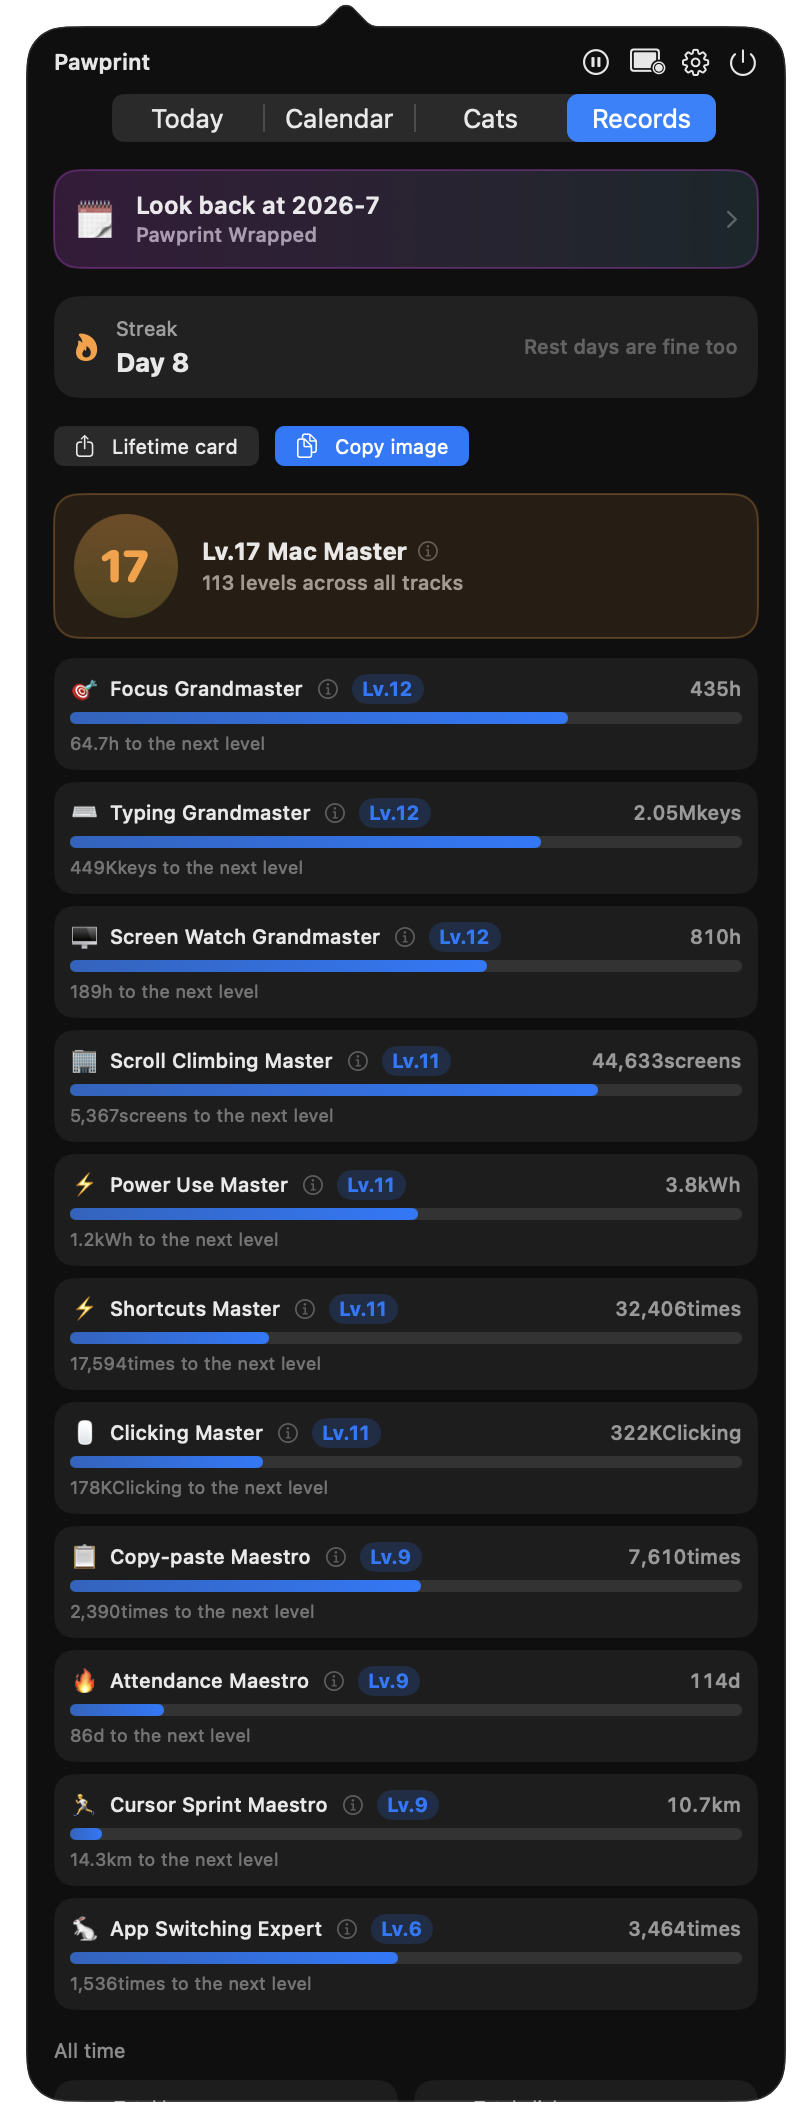
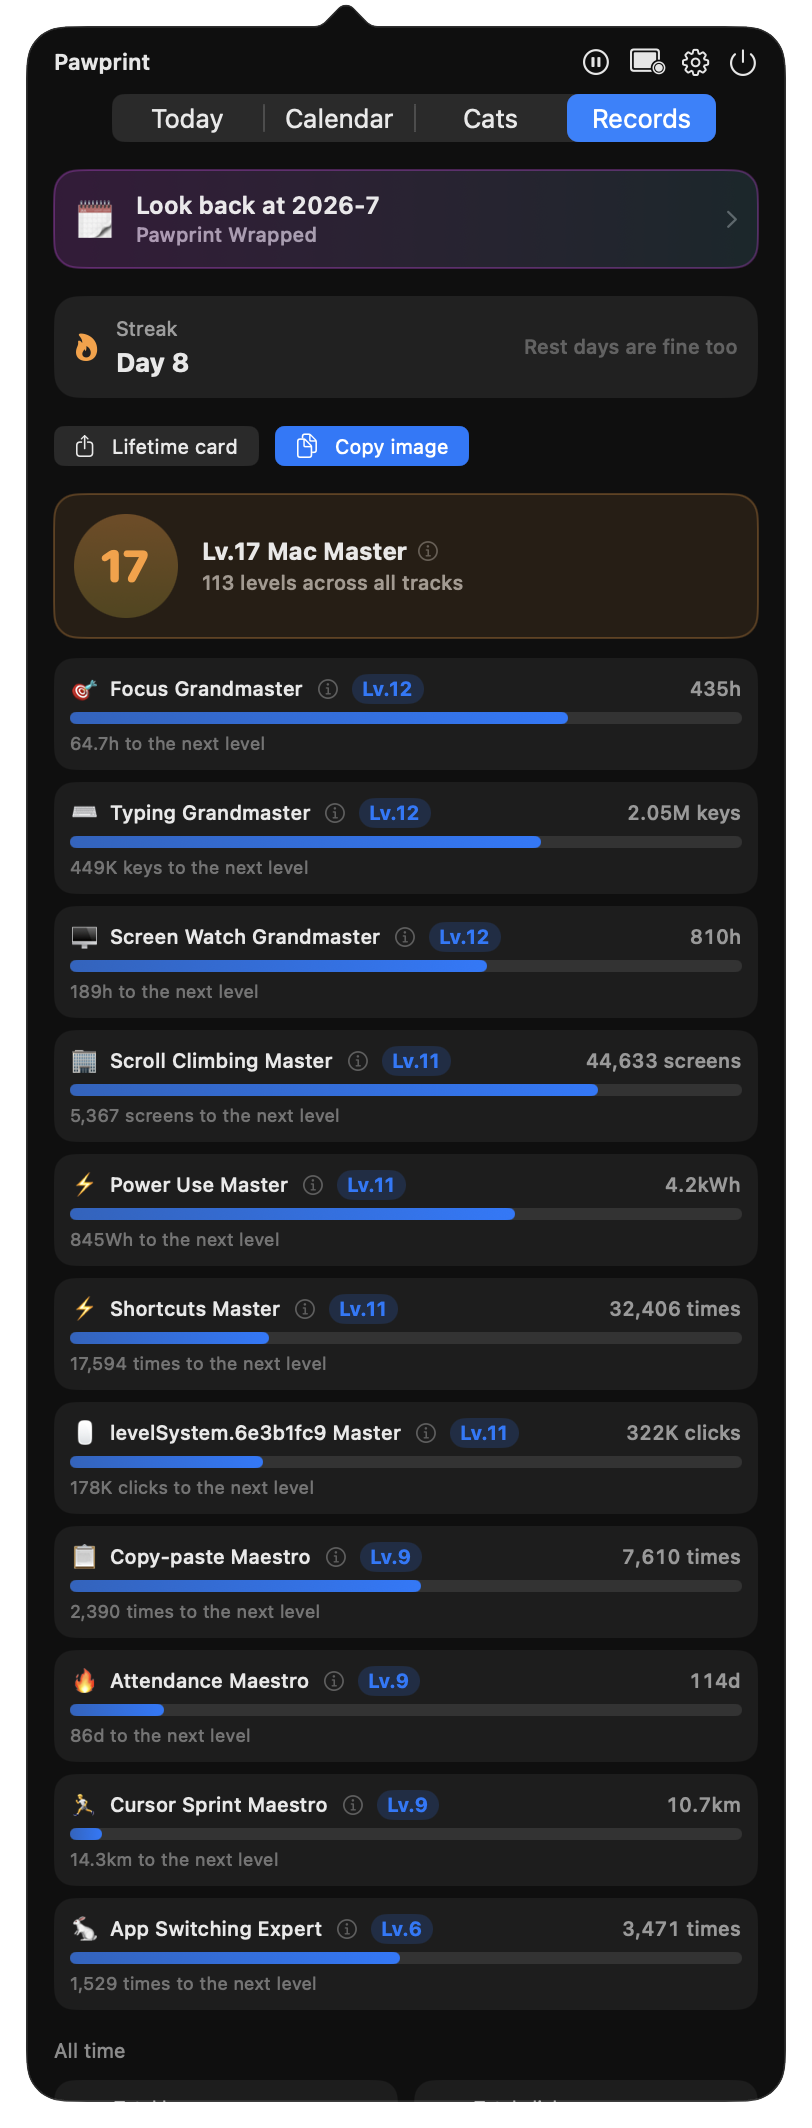
Fix English layout and unit spacing, and match the paw's pace to the cat's
The punch card and the calendar gutter reserved 12pt for a weekday name, which
fits Korean's single character and not "Wed". English also had Sunday
translated as "d" — the day *unit* — because Korean writes both as 일. Both
grids now show an initial, with the full name in the tooltip.

Units were being glued onto numbers in code: correct for Korean (863화면),
wrong for English (863screens, 32,406times, 322KClicking). Each unit is now a
whole template in the language pack, so the spacing belongs to the translation.
The monthly trend axis had the same collision in reverse — 월 is both "month"
and "Monday", so the English axis read "03Mon"; month names now come from the
locale. The pawpet card's trait column was a fixed 26pt and split "Expression"
across three lines; it is a Grid now, sized to whatever language is loaded.

The paw's wiggle divided by 12 while the cycle is 48 frames, a leftover from
when the cycle was 12. Once the cycle was lengthened for the cat, the paw ran
four wiggles per tail wave and looked frantic next to it. One motion each now.

READMEs lead with what the app measures — cursor distance, scroll, app
switching, focus, power — rather than reading as a typing tracker, and add
captures of the lower half of Today (fun facts, keyboard heatmap) and the
share card.

diff --git a/Sources/Pawprint/UI/PopoverRootView.swift b/Sources/Pawprint/UI/PopoverRootView.swift
@@ -25,9 +25,22 @@ struct PopoverRootView: View {
     static let gallerySort: PawpetGalleryView.SortField =
         ProcessInfo.processInfo.environment["PAWPRINT_SHOT_SORT"] == "date" ? .date : .rarity
 
-    static let scrollHeight: CGFloat =
+    /// `var`, not `let`, only so the capture harness can shoot one tab at two different heights
+    /// in a single run. Nothing in the app writes it.
+    static var scrollHeight: CGFloat =
         ProcessInfo.processInfo.environment["PAWPRINT_SHOT_HEIGHT"].flatMap { CGFloat(Double($0) ?? 0) }
             ?? 520
+
+    /// Capture only: opens the popover already scrolled to a named section.
+    ///
+    /// The Today tab is roughly twice the height of the tallest screenshot worth putting in a
+    /// README, so the half below the fold — the fun facts and the keyboard heatmap — needs a shot
+    /// of its own rather than a taller version of the first one. Anchored to a section rather than
+    /// to the foot so the shot starts on a card boundary instead of halfway through one.
+    static var shotScrollAnchor: String?
+
+    /// The section the second Today screenshot starts from.
+    static let funFactsAnchor = "pawprint.scroll.funfacts"
 
     /// Screenshot capture opens the popover directly on the tab it wants; everywhere else this
     /// defaults to Today exactly as before.
@@ -91,16 +104,24 @@ struct PopoverRootView: View {
             .padding(.horizontal, 14)
             .padding(.top, 8)
 
-            ScrollView {
-                Group {
-                    switch tab {
-                    case .today: TodayView()
-                    case .calendar: CalendarView()
-                    case .gallery: PawpetGalleryView(initialSort: PopoverRootView.gallerySort)
-                    case .records: RecordsView()
+            ScrollViewReader { proxy in
+                ScrollView {
+                    Group {
+                        switch tab {
+                        case .today: TodayView()
+                        case .calendar: CalendarView()
+                        case .gallery: PawpetGalleryView(initialSort: PopoverRootView.gallerySort)
+                        case .records: RecordsView()
+                        }
                     }
+                    .frame(maxWidth: .infinity)
                 }
-                .frame(maxWidth: .infinity)
+                .onAppear {
+                    guard let anchor = Self.shotScrollAnchor else { return }
+                    // A frame later: on the first pass the tab's own content has not been laid
+                    // out yet, so there is nothing to scroll and the anchor is already on screen.
+                    DispatchQueue.main.async { proxy.scrollTo(anchor, anchor: .top) }
+                }
             }
             // Tall enough for the whole tab when capturing README screenshots: the popover is a
             // scrolling view, and a shot of its first 520 points leaves out the heatmap, the

diff --git a/Sources/Pawprint/Engine/LevelSystem.swift b/Sources/Pawprint/Engine/LevelSystem.swift
@@ -98,22 +98,6 @@ enum QuestTrack: String, CaseIterable, Identifiable {
         }
     }
 
-    var unit: String {
-        switch self {
-        case .keys: return L10n.t("levelSystem.31618a08")
-        case .clicks: return L10n.t("levelSystem.6e3b1fc9")
-        case .cursor: return "m"
-        case .scroll: return L10n.t("levelSystem.43c786f1")
-        case .focus: return L10n.t("levelSystem.6c35133c")
-        case .screenTime: return L10n.t("levelSystem.6c35133c")
-        case .appSwitches: return L10n.t("levelSystem.2fc05c02")
-        case .clipboard: return L10n.t("levelSystem.2fc05c02")
-        case .shortcuts: return L10n.t("levelSystem.2fc05c02")
-        case .days: return L10n.t("levelSystem.06cf3e90")
-        case .energy: return "Wh"
-        }
-    }
-
     /// Level 1's threshold. Later levels multiply this by `growth` repeatedly.
     var baseThreshold: Double {
         switch self {
@@ -192,20 +176,27 @@ enum QuestTrack: String, CaseIterable, Identifiable {
         return table[min(level, table.count) - 1]
     }
 
+    /// Value with its unit, written the way the loaded language writes it.
+    ///
+    /// Each unit is a full template rather than a bare word glued onto the number. Korean attaches
+    /// its units ("32,406회") and English does not ("32,406 times"), and concatenating in code
+    /// could only be right for one of them — it printed "32,406times" and "322KClicking".
     func formatted(_ value: Double) -> String {
+        let number = Formatters.compactNumber(Int(value.rounded()))
         switch self {
         case .focus, .screenTime:
             return Formatters.hoursValue(value)
         case .cursor:
             return Formatters.compactDistance(meters: value)
-        case .scroll:
-            return Formatters.compactNumber(Int(value.rounded())) + L10n.t("levelSystem.43c786f1")
         case .energy:
             return value >= 1000
                 ? String(format: "%.1fkWh", value / 1000)
                 : String(format: "%.0fWh", value)
-        default:
-            return Formatters.compactNumber(Int(value.rounded())) + unit
+        case .keys: return L10n.t("levelSystem.a7c3c02f", number)
+        case .clicks: return L10n.t("levelSystem.8dc0c89d", number)
+        case .scroll: return L10n.t("levelSystem.5d3b8ef3", number)
+        case .appSwitches, .clipboard, .shortcuts: return L10n.t("levelSystem.cf3d71b3", number)
+        case .days: return L10n.t("levelSystem.cec3694e", number)
         }
     }
 }

diff --git a/Sources/Pawprint/Utilities/Formatters.swift b/Sources/Pawprint/Utilities/Formatters.swift
@@ -189,7 +189,7 @@ enum Formatters {
     /// minutes, because "0.2시간 / 0.2시간" made a progress bar look stuck at its own target.
     static func hoursValue(_ hours: Double) -> String {
         if hours < 1 { return L10n.t("formatters.bfecc441", Int((hours * 60).rounded())) }
-        if hours >= 100 { return compactNumber(Int(hours)) + L10n.t("formatters.6c35133c") }
+        if hours >= 100 { return L10n.t("formatters.0967e5ff", compactNumber(Int(hours))) }
         return String(format: L10n.t("formatters.3dd100c4"), hours)
     }
 
@@ -215,7 +215,30 @@ enum Formatters {
         hourLabel(hour24) + L10n.t("formatters.30f39b92")
     }
 
-    /// Korean weekday name for a 0-based index where 0 = Sunday.
+    /// "3월" / "Mar" — the axis label under the monthly trend bars.
+    ///
+    /// Read from the locale rather than the language pack. Korean writes the month with the same
+    /// word it uses for Monday, so both shared one extracted key and the English axis came out as
+    /// "03Mon". Month names are something every locale already knows.
+    static func monthLabel(_ month: String) -> String {
+        let formatter = DateFormatter()
+        formatter.locale = LocalizationManager.activeLocale
+        guard let index = Int(month.suffix(2)), (1...12).contains(index),
+              let names = formatter.shortStandaloneMonthSymbols, names.count == 12 else { return month }
+        return names[index - 1]
+    }
+
+    /// Single-letter weekday initial, for grids whose gutter fits one character.
+    ///
+    /// The punch card and the calendar gutter were laid out around Korean weekday names, which are
+    /// one character each. English ones are three, and they ran over the grid. Taking the initial
+    /// keeps the layout identical in every language; the full name is still in the tooltip.
+    static func weekdayInitial(_ index: Int) -> String {
+        let name = weekdayName(index)
+        return name.first.map(String.init) ?? name
+    }
+
+    /// Weekday name for a 0-based index where 0 = Sunday.
     static func weekdayName(_ index: Int) -> String {
         let names = [L10n.t("formatters.06cf3e90"), L10n.t("formatters.75448692"), L10n.t("formatters.adb4a282"), L10n.t("formatters.c04eb2ef"), L10n.t("formatters.5664a634"), L10n.t("formatters.cf5632c7"), L10n.t("formatters.b9e40662")]
         guard index >= 0 && index < names.count else { return "?" }

diff --git a/Sources/Pawprint/UI/Components/MenuBarIconAnimator.swift b/Sources/Pawprint/UI/Components/MenuBarIconAnimator.swift
@@ -27,8 +27,8 @@ final class MenuBarIconAnimator {
     /// Set via the PAWPRINT_DEBUG_PAW env var to log tick/frame activity to stderr.
     @ObservationIgnored private let debugLogging = ProcessInfo.processInfo.environment["PAWPRINT_DEBUG_PAW"] != nil
 
-    /// One cycle. The paw completes four wiggles per cycle and the cat one tail wave, so a single
-    /// frame clock drives both without the cat looking frantic.
+    /// One cycle: one paw wiggle, or one tail wave. Both icons share the frame clock, so keeping
+    /// them to one motion per cycle is what makes them move at the same pace.
     ///
     /// Doubled from 24 with the per-frame intervals halved to match, so each cycle takes the same
     /// time as before at twice the frame rate. At 24 the slow end of the range was three frames a
@@ -39,16 +39,19 @@ final class MenuBarIconAnimator {
     /// Canvas is larger than the glyph so rotated corners aren't clipped.
     private static let canvasSize: CGFloat = 22
 
-    /// Wiggle poses: a soft sine sway plus a half-rate bob, so it eases at the extremes instead
-    /// of ticking like a metronome.
-    /// Divided by 12, not `frameCount`, so lengthening the cycle for the cat left the paw's
-    /// rhythm exactly as it was.
+    /// Wiggle poses: a soft sine sway plus a bob, so it eases at the extremes instead of ticking
+    /// like a metronome.
+    ///
+    /// Divided by `frameCount`, like the cat. It used to divide by 12 — a leftover from when the
+    /// cycle *was* 12 frames — so when the cycle was lengthened for the cat, the paw kept its old
+    /// rhythm and ran four wiggles for every one of the cat's tail waves. Side by side the paw
+    /// looked frantic next to the same app's other icon.
     private static let angles: [CGFloat] = (0..<frameCount).map { step in
-        let t = Double(step) / 12 * 2 * .pi
+        let t = Double(step) / Double(frameCount) * 2 * .pi
         return CGFloat(sin(t) * 9)
     }
     private static let bobs: [CGFloat] = (0..<frameCount).map { step in
-        let t = Double(step) / 12 * 2 * .pi
+        let t = Double(step) / Double(frameCount) * 2 * .pi
         return CGFloat(-abs(sin(t * 2)) * 1.1)
     }
 

diff --git a/Sources/Pawprint/DebugSnapshot.swift b/Sources/Pawprint/DebugSnapshot.swift
@@ -1002,9 +1002,36 @@ enum DebugSnapshot {
         // the Records tab — not whatever happens to be announced that week.
         AnnouncementCenter.shared.announcements = []
 
+        // The share card is an image the app generates, not a window, so it is written straight
+        // out at the size the user actually gets on their clipboard.
+        if let card = ShareCardRenderer.image(
+            for: .today(ActivityCenter.shared.todaySummary),
+            metrics: MetricCatalog.shareMetrics(settings: ActivityCenter.shared.settings)),
+           let tiff = card.tiffRepresentation,
+           let png = NSBitmapImageRep(data: tiff)?.representation(using: .png, properties: [:]) {
+            try? png.write(to: URL(fileURLWithPath: "\(directory)/\(language)-share-card.png"))
+            write("shot \(language)-share-card.png\n")
+        }
+
+        let tallHeight = PopoverRootView.scrollHeight
         var steps: [(String, () -> Void)] = []
         for tab in PopoverTab.allCases {
-            steps.append(("popover-\(tab)", { controller.showPopover(on: tab) }))
+            steps.append(("popover-\(tab)", {
+                PopoverRootView.shotScrollAnchor = nil
+                // The Calendar tab is the short one; at the height that fits the others it came
+                // out with a third of the image empty.
+                PopoverRootView.scrollHeight = tab == .calendar ? 700 : tallHeight
+                controller.showPopover(on: tab)
+            }))
+            // Today is about twice as tall as the others, so its first screen leaves out the fun
+            // facts and the keyboard heatmap entirely. Second shot, shorter and bottom-anchored.
+            if tab == .today {
+                steps.append(("popover-today-more", {
+                    PopoverRootView.shotScrollAnchor = PopoverRootView.funFactsAnchor
+                    PopoverRootView.scrollHeight = 900
+                    controller.showPopover(on: .today)
+                }))
+            }
         }
 
         // The sheets and the settings window are their own windows, so they are captured after

diff --git a/Sources/Pawprint/UI/Components/PawpetCard.swift b/Sources/Pawprint/UI/Components/PawpetCard.swift
@@ -36,16 +36,20 @@ struct PawpetCard: View {
                         Spacer()
                     }
                     Text(traits.caption).font(.callout.weight(.semibold))
-                    ForEach(visible, id: \.trait) { note in
-                        HStack(alignment: .top, spacing: 4) {
-                            Text(note.trait)
-                                .font(.system(size: 9, weight: .semibold))
-                                .foregroundStyle(.tertiary)
-                                .frame(width: 26, alignment: .leading)
-                            Text(note.reason)
-                                .font(.system(size: 10))
-                                .foregroundStyle(.secondary)
-                                .fixedSize(horizontal: false, vertical: true)
+                    Grid(alignment: .leadingFirstTextBaseline,
+                         horizontalSpacing: 5, verticalSpacing: 3) {
+                        ForEach(visible, id: \.trait) { note in
+                            GridRow {
+                                Text(note.trait)
+                                    .font(.system(size: 9, weight: .semibold))
+                                    .foregroundStyle(.tertiary)
+                                    .fixedSize()
+                                    .gridColumnAlignment(.leading)
+                                Text(note.reason)
+                                    .font(.system(size: 10))
+                                    .foregroundStyle(.secondary)
+                                    .fixedSize(horizontal: false, vertical: true)
+                            }
                         }
                     }
                 }

diff --git a/Sources/Pawprint/UI/RecordsView.swift b/Sources/Pawprint/UI/RecordsView.swift
@@ -153,8 +153,8 @@ struct RecordsView: View {
                           exact: Formatters.exactNumber(stats.totalClicks))
                 totalTile(L10n.t("recordsView.4a489ead"), Formatters.compactDistance(meters: stats.cursorDistanceMeters), "figure.run",
                           exact: Formatters.exactNumber(Int(stats.cursorDistanceMeters)) + "m")
-                totalTile(L10n.t("recordsView.cf561eea"), Formatters.compactNumber(Int(stats.scrollScreens)) + L10n.t("recordsView.43c786f1"), "scroll",
-                          exact: Formatters.exactNumber(Int(stats.scrollScreens)) + L10n.t("recordsView.43c786f1"))
+                totalTile(L10n.t("recordsView.cf561eea"), L10n.t("recordsView.5d3b8ef3", Formatters.compactNumber(Int(stats.scrollScreens))), "scroll",
+                          exact: L10n.t("recordsView.5d3b8ef3", Formatters.exactNumber(Int(stats.scrollScreens))))
                 totalTile(L10n.t("recordsView.49d8f80b"), Formatters.longSpan(stats.totalActiveSeconds), "clock",
                           exact: Formatters.exactDuration(stats.totalActiveSeconds))
                 totalTile(L10n.t("recordsView.0c36eb4f"), Formatters.longSpan(stats.totalScreenOnSeconds), "display",

diff --git a/Sources/Pawprint/UI/CalendarView.swift b/Sources/Pawprint/UI/CalendarView.swift
@@ -165,9 +165,10 @@ struct CalendarView: View {
                 Group {
                     // Only label alternating rows so the gutter stays uncluttered.
                     if index % 2 == 1 {
-                        Text(Formatters.weekdayName(index))
+                        Text(Formatters.weekdayInitial(index))
                             .font(.system(size: 8))
                             .foregroundStyle(.tertiary)
+                            .help(Formatters.weekdayName(index))
                     } else {
                         Color.clear
                     }
@@ -303,7 +304,7 @@ struct CalendarView: View {
                                 RoundedRectangle(cornerRadius: 3)
                                     .fill(Color.accentColor.opacity(value > 0 ? 0.75 : 0.2))
                                     .frame(height: peak > 0 ? max(3, 46 * value / peak) : 3)
-                                Text(String(month.suffix(2)) + L10n.t("calendarView.75448692"))
+                                Text(Formatters.monthLabel(month))
                                     .font(.system(size: 8))
                                     .foregroundStyle(.tertiary)
                             }

diff --git a/Sources/Pawprint/Models/MetricCatalog.swift b/Sources/Pawprint/Models/MetricCatalog.swift
@@ -182,9 +182,9 @@ enum MetricCatalog {
             explanationKey: "metricCatalog.472edd57",
             category: .mouse,
             value: { $0.scrollScreens },
-            display: { Formatters.compactNumber(Int($0.scrollScreens.rounded())) + L10n.t("metricCatalog.43c786f1") },
+            display: { L10n.t("metricCatalog.5d3b8ef3", Formatters.compactNumber(Int($0.scrollScreens.rounded()))) },
             lifetimeValue: { $0.scrollScreens },
-            lifetimeDisplay: { Formatters.compactNumber(Int($0.scrollScreens.rounded())) + L10n.t("metricCatalog.43c786f1") }
+            lifetimeDisplay: { L10n.t("metricCatalog.5d3b8ef3", Formatters.compactNumber(Int($0.scrollScreens.rounded()))) }
         ),
 
         // MARK: Apps

diff --git a/Sources/Pawprint/UI/Components/PunchCardView.swift b/Sources/Pawprint/UI/Components/PunchCardView.swift
@@ -62,10 +62,11 @@ struct PunchCardView: View {
         VStack(spacing: 2) {
             ForEach(0..<7, id: \.self) { weekday in
                 HStack(spacing: 2) {
-                    Text(Formatters.weekdayName(weekday))
+                    Text(Formatters.weekdayInitial(weekday))
                         .font(.system(size: 8))
                         .foregroundStyle(.tertiary)
                         .frame(width: 12, alignment: .leading)
+                        .help(Formatters.weekdayName(weekday))
                     ForEach(0..<24, id: \.self) { hour in
                         RoundedRectangle(cornerRadius: 1.5)
                             .fill(color(for: grid[weekday][hour]))

diff --git a/Sources/Pawprint/Engine/WrappedReport.swift b/Sources/Pawprint/Engine/WrappedReport.swift
@@ -136,7 +136,7 @@ struct WrappedReport {
             (L10n.t("wrappedReport.866e0ee4"), Formatters.compactNumber(totalClicks)),
             (L10n.t("wrappedReport.da8dd921"), Formatters.longSpan(totalFocus)),
             (L10n.t("wrappedReport.7c2c694b"), Formatters.compactDistance(meters: totalCursor)),
-            (L10n.t("wrappedReport.daa69457"), Formatters.compactNumber(Int(totalScroll)) + L10n.t("wrappedReport.43c786f1")),
+            (L10n.t("wrappedReport.daa69457"), L10n.t("wrappedReport.5d3b8ef3", Formatters.compactNumber(Int(totalScroll)))),
             (L10n.t("wrappedReport.50922e57"), bestWPMDay.map { Formatters.wpm($0.maxWPM) } ?? "-"),
         ]
 

diff --git a/Sources/Pawprint/UI/TodayView.swift b/Sources/Pawprint/UI/TodayView.swift
@@ -79,6 +79,7 @@ struct TodayView: View {
             }
 
             funFactsSection
+                .id(PopoverRootView.funFactsAnchor)
 
             if !summary.energyFacts.isEmpty {
                 EnergyCard(lines: summary.energyFacts.map(\.text), drainedPercent: summary.batteryDrainedPercent)
